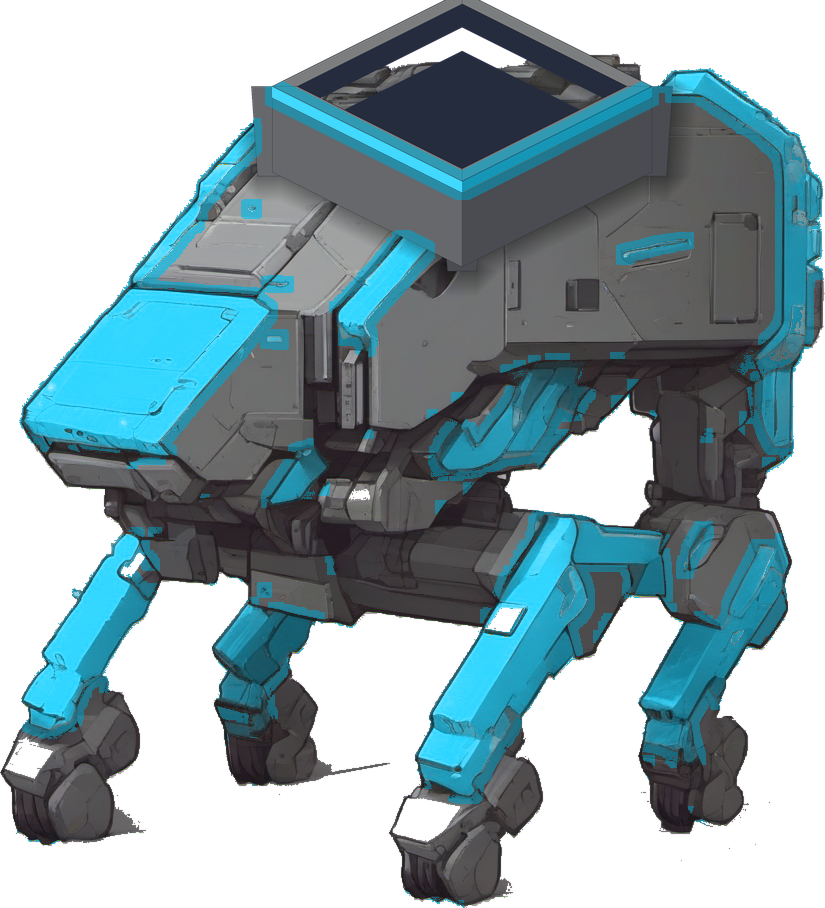
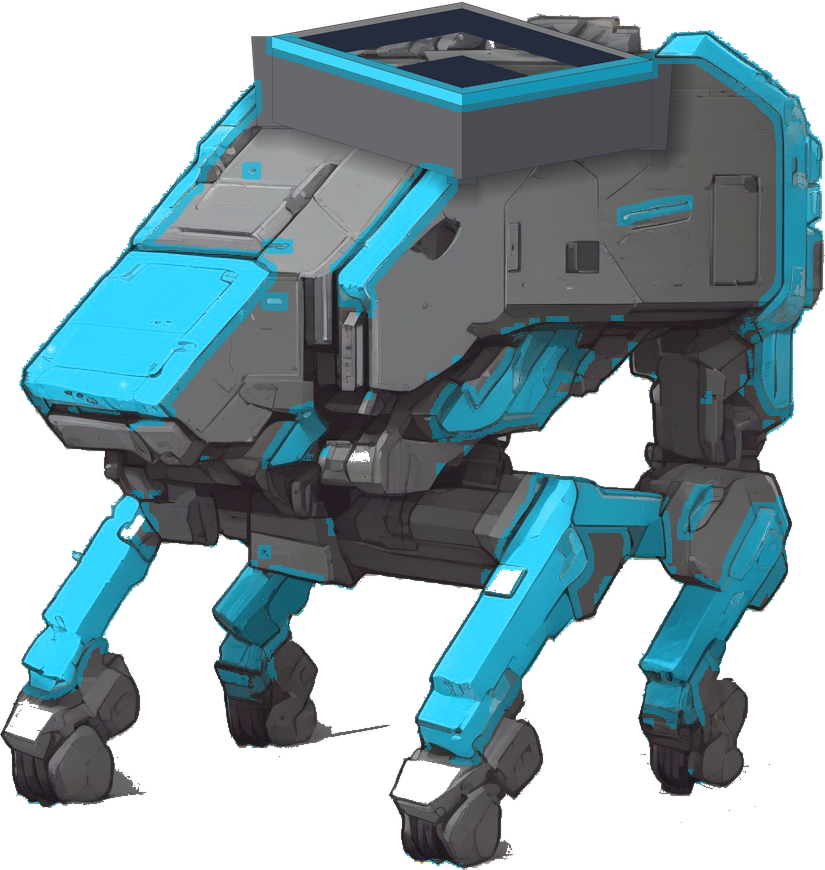
fix(art): the cradle was in a different projection from the machine it sits on
Second round of "still looks off" on the crate. S8-20 fixed four genuine defects
— value, outline, rim lighting, contact-shadow shape — and the crate still looked
wrong. ★★ THAT IS THE FINDING: when correcting several real problems does not fix
the symptom, the diagnosis is incomplete, not the execution.

MEASURED OFF THE BARE MASTER'S OWN SILHOUETTE:
  hull top-LEFT  edge slope  -0.179   (true 2:1 dimetric: -0.500)  -> 64% off
  hull top-RIGHT edge slope  +0.305   (true 2:1 dimetric: +0.500)  -> 39% off

This machine is a GENERATED render. SDXL painted a plausible-looking three-quarter
view, not a mathematically correct dimetric one, and it is ASYMMETRIC — the left
edge far shallower than the right. draw_cargo_cradle.py drew a perfect SYMMETRIC
2:1 rhombus.

⇒ The crate was in one projection and the machine underneath it in another. The
eye reads that instantly and cannot name it, which is exactly what "looks off"
means — and it is why tone, occlusion, directional rim lighting and mounting
brackets all failed to land. NONE OF THEM WERE THE PROBLEM.

THE FIX. measure_projection() fits the hull's actual top-edge slopes from its alpha
and feeds them to a parallelogram face builder, so the cradle is constructed in the
MACHINE'S OWN perspective instead of textbook dimetric. It re-measures every run, so
a re-rolled master carries its own geometry with no constant to keep in sync, and a
degenerate or inverted fit falls back to true dimetric rather than shearing the box.
[…]

diff --git a/tools/asset-pipeline/draw_cargo_cradle.py b/tools/asset-pipeline/draw_cargo_cradle.py
@@ -65,25 +65,97 @@ ACCENT_SHADE = (0xC4, 0x42, 0x1F)  # near-right rim, away from it
 INK = (0x22, 0x26, 0x30)         # outline
 
 
+def measure_projection(master: Image.Image,
+                       span: int = 260) -> tuple[float, float]:
+    """The hull's ACTUAL top-edge slopes, left and right of its apex.
+
+    ⛔⛔ THE REASON THE CRADLE KEPT LOOKING WRONG (S8-21). This machine is a
+    GENERATED render, and SDXL painted a *plausible* three-quarter view, not a
+    mathematically correct 2:1 dimetric one. Measured on the shipped master, the
+    hull's top-left edge runs at slope -0.18 where a true iso edge would be -0.50
+    — 64% off — and it is ASYMMETRIC, the right edge sitting at +0.44.
+
+    Drawing the cradle as a perfect symmetric 2:1 rhombus therefore glued an object
+    in ONE projection onto a machine in ANOTHER. The eye reads that instantly and
+    cannot name it, which is exactly the "looks off" report. ★★ No amount of tone,
+    occlusion or mounting hardware can fix a projection mismatch — S8-20 fixed four
+    real defects and the crate still looked wrong, because none of them were this.
+
+    ⇒ Measure the render and match it. Same principle the palette note above already
+    states for colour: the brief describes what was ASKED for, the render is what
+    EXISTS, and the sprite has to agree with the render.
+    """
+    import numpy as np
+
+    alpha = np.array(master)[:, :, 3] > 60
+    h, w = alpha.shape
+    top = []
+    for x in range(w):
+        col = np.nonzero(alpha[:, x])[0]
+        if len(col):
+            top.append((x, col[0]))
+    if len(top) < 60:
+        return -0.5, 0.5
+    top = np.array(top, dtype=float)
+    apex_x = top[int(np.argmin(top[:, 1])), 0]
+
+    def fit(lo: float, hi: float, fallback: float) -> float:
+        seg = top[(top[:, 0] > lo) & (top[:, 0] < hi)]
+        if len(seg) < 30:
+            return fallback
+        return float(np.polyfit(seg[:, 0], seg[:, 1], 1)[0])
+
+    left = fit(apex_x - span, apex_x - 40, -0.5)
+    right = fit(apex_x + 40, apex_x + span, 0.5)
+    # Guard against a degenerate fit on an odd master — a flat or inverted edge
+    # would produce a sheared mess, so fall back to true dimetric.
+    if not (-1.2 < left < -0.03) or not (0.03 < right < 1.2):
+        return -0.5, 0.5
+    return left, right
+
+
+def _face(cx: float, cy: float, w: float,
+          sl: float = -0.5, sr: float = 0.5) -> list[tuple[float, float]]:
+    """Top face as a parallelogram in the HULL's projection, centred on (cx, cy).
+
+    Returns [N, E, S, W]. With sl=-0.5, sr=+0.5 this is the old symmetric 2:1
+    rhombus exactly, so the default behaviour is unchanged.
+    """
+    hw = w / 2.0
+    # Edge vectors along the machine's two apparent ground axes.
+    ex, ey = hw, hw * sr           # apex -> E
+    wx, wy = -hw, -hw * sl         # apex -> W  (sl is negative going left-to-right)
+    n = (cx - (ex + wx) / 2.0, cy - (ey + wy) / 2.0)
+    e = (n[0] + ex, n[1] + ey)
+    w_ = (n[0] + wx, n[1] + wy)
+    s = (n[0] + ex + wx, n[1] + ey + wy)
+    return [n, e, s, w_]
+
+
 def _rhombus(cx: float, cy: float, w: float) -> list[tuple[float, float]]:
-    """2:1 dimetric rhombus centred on (cx, cy), `w` wide and w/2 tall."""
-    hw, hh = w / 2.0, w / 4.0
-    return [(cx, cy - hh), (cx + hw, cy), (cx, cy + hh), (cx - hw, cy)]
+    """True 2:1 dimetric rhombus — kept for callers that want exact iso."""
+    return _face(cx, cy, w, -0.5, 0.5)
 
 
 def draw_cradle(canvas: Image.Image, cx: float, cy: float, width: float,
-                height: float, wall: float) -> None:
-    """Paint an open-topped iso box whose RIM centre is (cx, cy)."""
+                height: float, wall: float,
+                sl: float = -0.5, sr: float = 0.5) -> None:
+    """Paint an open-topped box whose RIM centre is (cx, cy).
+
+    ★ `sl`/`sr` are the HULL'S measured top-edge slopes, so the box sits in the same
+    projection as the machine rather than in textbook dimetric. See
+    [func]measure_projection[/func] — this is the fix for "the crate looks off".
+    """
     d = ImageDraw.Draw(canvas)
-    outer = _rhombus(cx, cy, width)
-    inner = _rhombus(cx, cy, width - wall * 2)
+    outer = _face(cx, cy, width, sl, sr)
+    inner = _face(cx, cy, width - wall * 2, sl, sr)
 
     n, e, s, w = outer
     _, ie, is_, iw = inner
 
     # --- inner well: floor + the two far inner walls, so the opening has depth --
     floor_depth = height * 0.55
-    floor = _rhombus(cx, cy + floor_depth, width - wall * 2)
+    floor = _face(cx, cy + floor_depth, width - wall * 2, sl, sr)
     d.polygon([iw, (iw[0], iw[1] + floor_depth), (floor[2][0], floor[2][1]),
                is_], fill=WELL_DARK)
     d.polygon([ie, (ie[0], ie[1] + floor_depth), (floor[2][0], floor[2][1]),
@@ -91,7 +163,7 @@ def draw_cradle(canvas: Image.Image, cx: float, cy: float, width: float,
     d.polygon(floor, fill=WELL_DARK)
     # the near inner faces (behind the rim) — darkest, they never catch light
     d.polygon([iw, inner[0], ie, (ie[0], ie[1] + floor_depth * 0.5),
-               (cx, cy - _rhombus(0, 0, width - wall * 2)[0][1] * -1 + floor_depth * 0.5),
+               (cx, cy - _face(0, 0, width - wall * 2, sl, sr)[0][1] * -1 + floor_depth * 0.5),
                (iw[0], iw[1] + floor_depth * 0.5)], fill=WELL_DARK)
 
     # --- outer side faces, extruded straight down --------------------------
@@ -128,7 +200,7 @@ def draw_cradle(canvas: Image.Image, cx: float, cy: float, width: float,
 
 
 def draw_mounts(canvas: Image.Image, cx: float, cy: float, width: float,
-                height: float) -> None:
+                height: float, sl: float = -0.5, sr: float = 0.5) -> None:
     """Chunky brackets tying the cradle's corners down onto the hull.
 
     ★ THE DECISIVE 'ATTACHED' CUE. Occlusion alone says an object is RESTING on a
@@ -143,7 +215,7 @@ def draw_mounts(canvas: Image.Image, cx: float, cy: float, width: float,
     floating silhouette.
     """
     d = ImageDraw.Draw(canvas)
-    n, e, s, w = _rhombus(cx, cy, width)
+    n, e, s, w = _face(cx, cy, width, sl, sr)
     leg = height * 1.05
     thick = width * 0.055
     for (px_, py_), face in ((w, PLATE_MID), (e, PLATE_DARK), (s, PLATE_DARK)):
@@ -239,6 +311,12 @@ def main() -> None:
     canvas = Image.new("RGBA", (mw, mh + pad), (0, 0, 0, 0))
     canvas.alpha_composite(master, (0, pad))
 
+    # ★ Measure the machine's own projection BEFORE the cradle goes on, from the
+    # bare master — the whole point is to match what the generator actually painted.
+    sl, sr = measure_projection(master)
+    print(f"  hull projection: left {sl:+.3f}, right {sr:+.3f} "
+          f"(true dimetric is -0.500/+0.500)")
+
     big = canvas.resize((canvas.width * SS, canvas.height * SS), Image.NEAREST)
     layer = Image.new("RGBA", big.size, (0, 0, 0, 0))
     # Brackets first — the box is drawn over them so they run underneath it.
@@ -248,6 +326,7 @@ def main() -> None:
         cy=args.cy * (mh + pad) * SS,
         width=args.width * mw * SS,
         height=args.height * mh * SS,
+        sl=sl, sr=sr,
     )
     draw_cradle(
         layer,
@@ -256,6 +335,7 @@ def main() -> None:
         width=args.width * mw * SS,
         height=args.height * mh * SS,
         wall=args.wall * mw * SS,
+        sl=sl, sr=sr,
     )
     # ★ Contact shading BEFORE the cradle goes down: darken the hull in a band
     # under the cradle's footprint. Without it the box reads as pasted on — a

diff --git a/production/qa/evidence/s8-14-builder/README.md b/production/qa/evidence/s8-14-builder/README.md
@@ -11,7 +11,8 @@
 | `02-builder-destroyed.png` | Destroyed state · 3 hues × 2 facings |
 | `03-builder-vs-roster.png` | ★ Silhouette check — Builder vs the full rush roster |
 | `04-cradle-detail-2x.png` | S8-16 cradle at 2× in all three hues |
-| ★ `05-cradle-before-after.png` | **S8-20 cradle re-seat — before/after at shipped scale and 2.8×** |
+| ★ `05-cradle-before-after.png` | S8-20 cradle re-seat — before/after |
+| ★★ `06-cradle-projection-fix.png` | **S8-21 — the cradle drawn in the hull's OWN projection. This is the one that mattered** |
 
 ⚠ **These composite the SHIPPED runtime PNGs at shipped size onto the stage colour.**
 They deliberately **do not** use `board_preview.py`, which re-runs `cutout(pockets=True)` on its
@@ -140,3 +141,51 @@ cradle **into** the hull rather than perching it on top means less canvas growth
 
 Accent re-measured after the re-derive: **35.1% / 35.5%**, still clearing the 30% floor, roster
 spread **1.79×**. Suite 1307/1307.
+
+
+---
+
+## ⛔⛔ S8-21 — "still looks off", and this time the cause was structural
+
+Second round of feedback on the cradle. S8-20 had fixed four genuine defects and the crate still
+looked wrong, which is itself the finding: **when correcting several real problems does not fix the
+symptom, the diagnosis is incomplete, not the execution.**
+
+### The hull is not in the projection the cradle was drawn in
+
+Measured off the bare master's own silhouette:
+
+| Hull top edge | Measured slope | True 2:1 dimetric | Off by |
+|---|---:|---:|---:|
+| **left** | **−0.179** | −0.500 | ⛔ **64%** |
+| right | +0.305 | +0.500 | 39% |
+
+★★ **This machine is a GENERATED render.** SDXL painted a *plausible-looking* three-quarter view,
+not a mathematically correct dimetric one — and it is **asymmetric**, the left edge far shallower
+than the right. `draw_cargo_cradle.py` drew a perfect **symmetric 2:1 rhombus**.
+
+⇒ **The crate was in one projection and the machine it sits on was in another.** The eye reads that
+immediately and cannot name it, which is precisely what "looks off" means. **No amount of tone,
+occlusion, rim lighting or mounting hardware can fix a projection mismatch** — which is exactly why
+S8-20 corrected four real defects and moved the needle only slightly.
+
+### The fix — measure the render, don't assume the grid
+
+`measure_projection()` fits the hull's actual top-edge slopes from its alpha and feeds them to the
+face builder, so the cradle is constructed in **the machine's own perspective**. ★ It re-measures
+every run, so a re-rolled master carries its own geometry automatically — nothing to keep in sync.
+
+★ **This is the same principle the file already stated for colour** and did not apply to shape: *the
+brief describes what was ASKED for; the render is what EXISTS; the sprite must agree with the
+render.* The palette note learned it in S8-16. Geometry took until S8-21.
+
+⚠ **Guarded**: a degenerate or inverted fit falls back to true dimetric rather than shearing the box
+into a mess.
+
+### ✅ And it is flatter, which pays back the height
+
+Following the hull's shallower left axis makes the cradle sit lower. The sprite is **148 px** —
+against 157 as originally shipped and 154 after S8-20. ★ **The cradle now costs 3 px of height
+instead of 12**, so most of what it took from S8-15's user-requested "shorter and bulkier" is back.
+
+Accent 34.2% / 34.4%, floor OK, spread 1.83×. Suite 1307/1307.
